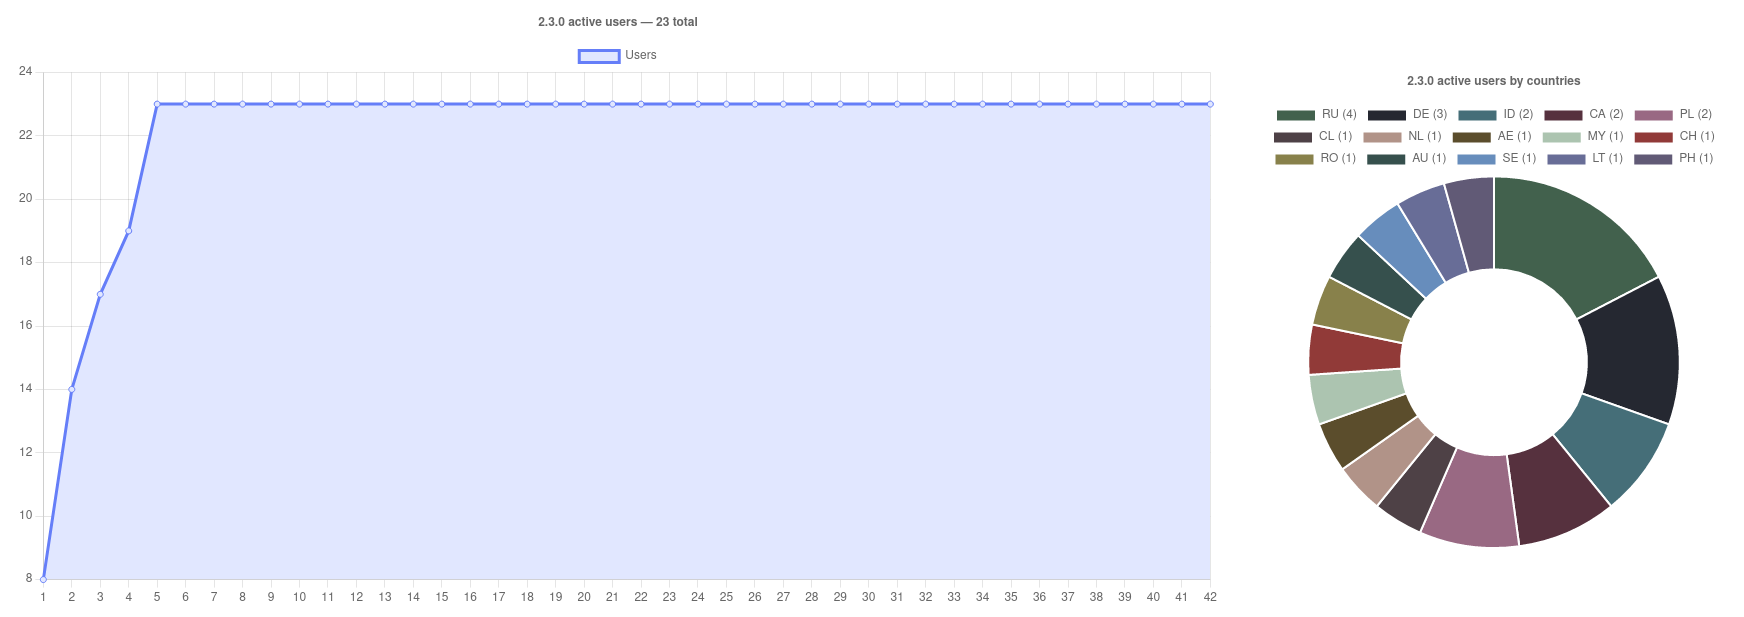
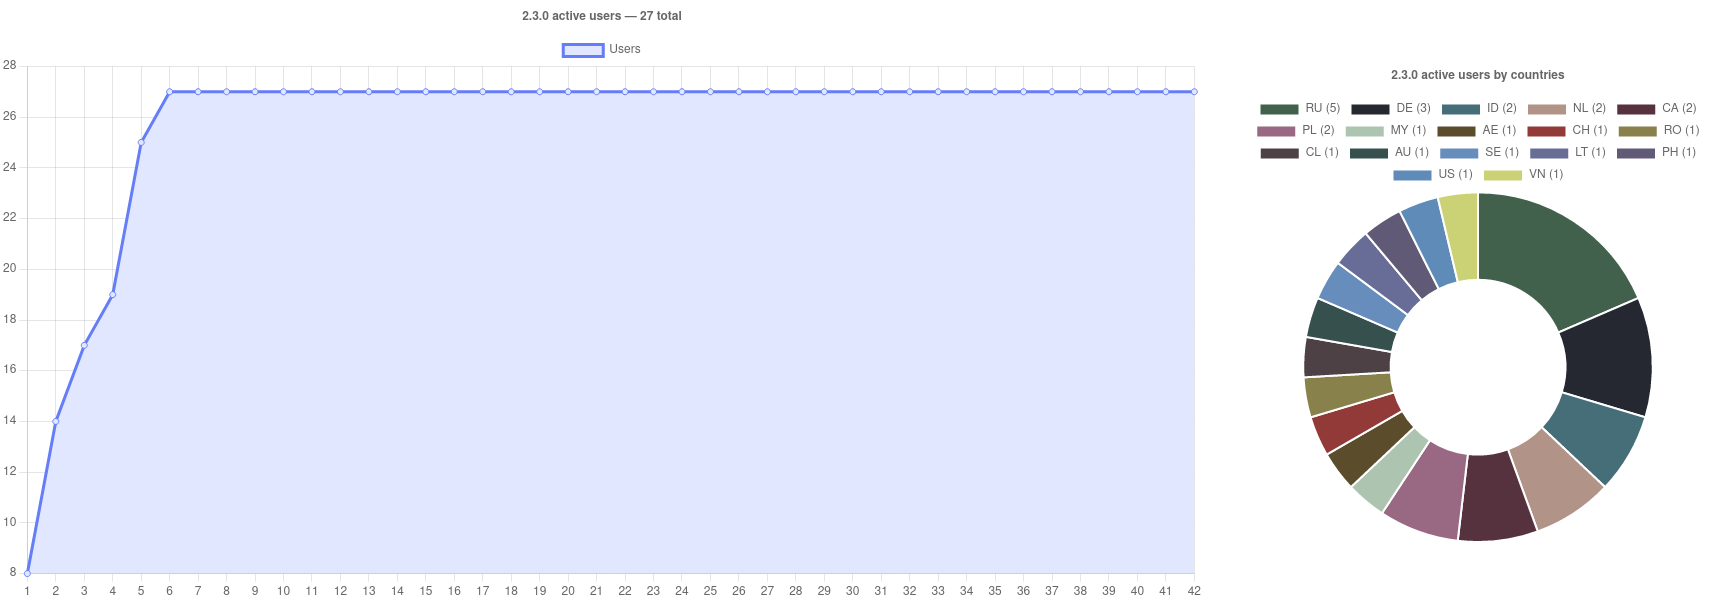
1.8.0 preparations (2) - updated readme - added locales pattern to prefix dir buttons

diff --git a/public/html/settings.html b/public/html/settings.html
@@ -138,11 +138,11 @@
                     <input readonly>
 
                     <div>
-                        <button class="button hint--top hint--small" data-hint="Select dir" id="choose-location">
+                        <button class="button hint--top hint--small" id="choose-location">
                             <svg width="21px" height="21px" viewBox="0 0 21 21" xmlns="http://www.w3.org/2000/svg"><g fill="none" fill-rule="evenodd" stroke="currentColor" stroke-linecap="round" stroke-linejoin="round" transform="translate(3 4)"><path d="m.5 1.5v9c0 1.1045695.8954305 2 2 2h10c1.1045695 0 2-.8954305 2-2v-6.00280762c.0007656-1.05436179-.8150774-1.91816512-1.8499357-1.99451426l-.1500643-.00468356-5 .00200544-2-2h-4c-.55228475 0-1 .44771525-1 1z"/><path d="m.5 2.5h7"/></g></svg>
                         </button>
 
-                        <button class="button hint--top hint--small" data-hint="Reset dir" id="reset-location">
+                        <button class="button hint--top hint--small" id="reset-location">
                             <svg width="15px" height="15px" viewBox="0 0 15 15" fill="none" xmlns="http://www.w3.org/2000/svg"><path fill-rule="evenodd" clip-rule="evenodd" d="M4.85355 2.14645C5.04882 2.34171 5.04882 2.65829 4.85355 2.85355L3.70711 4H9C11.4853 4 13.5 6.01472 13.5 8.5C13.5 10.9853 11.4853 13 9 13H5C4.72386 13 4.5 12.7761 4.5 12.5C4.5 12.2239 4.72386 12 5 12H9C10.933 12 12.5 10.433 12.5 8.5C12.5 6.567 10.933 5 9 5H3.70711L4.85355 6.14645C5.04882 6.34171 5.04882 6.65829 4.85355 6.85355C4.65829 7.04882 4.34171 7.04882 4.14645 6.85355L2.14645 4.85355C1.95118 4.65829 1.95118 4.34171 2.14645 4.14645L4.14645 2.14645C4.34171 1.95118 4.65829 1.95118 4.85355 2.14645Z" fill="currentColor"/></svg>
                         </button>
                     </div>

diff --git a/src/ts/settings.ts b/src/ts/settings.ts
@@ -64,13 +64,11 @@ $(() => {
         $('#prefix input').val(constants.prefixDir.get());
     });
 
-    $('#prefix #choose-location').on('click', () => {
-        ipcRenderer.send('prefix-select');
-    });
+    $('#prefix #choose-location').on('click', () => ipcRenderer.send('prefix-select'));
+    $('#prefix #reset-location').on('click', () => ipcRenderer.send('prefix-reset'));
 
-    $('#prefix #reset-location').on('click', () => {
-        ipcRenderer.send('prefix-reset');
-    });
+    $('#prefix #choose-location').attr('data-hint', LauncherUI.i18n.translate('SelectDir'));
+    $('#prefix #reset-location').attr('data-hint', LauncherUI.i18n.translate('ResetDir'));
 
     /**
      * Game voice language

diff --git a/README.md b/README.md
@@ -30,11 +30,11 @@ This launcher is also available as the [an-anime-game-launcher](https://aur.arch
 
 ## Usage statistics
 
-### 2.2.0
+### 2.2.0 — 29 total
 
 <img src="repository-pics/stats/2.2.0.png">
 
-### 2.3.0
+### 2.3.0 — 27 total
 
 <img src="repository-pics/stats/2.3.0.png">
 
@@ -133,8 +133,8 @@ npm start
 * <s>Add dark theme support for settings menu</s> *(1.7.0)*
 * Add winetricks and winecfg buttons to settings ([notabug issue 35](https://notabug.org/nobody/an-anime-game-launcher/issues/35))
 * Use `LauncherLib.getGameVersion` function instead of the `config.json`'s `version` property
-* Fix button flickering at start when the launcher's state updates
 * Wine prefix folder selection *(symlinks?)* ([notabug issue 37](https://notabug.org/nobody/an-anime-game-launcher/issues/37))
+* Fix button flickering at start when the launcher's state updates
 * Game's update pre-installation
 * Screenshots explorer
 * Make force launch button when the launcher's repository is unavailable *(waiting for the repository's unavailability lmao)*
